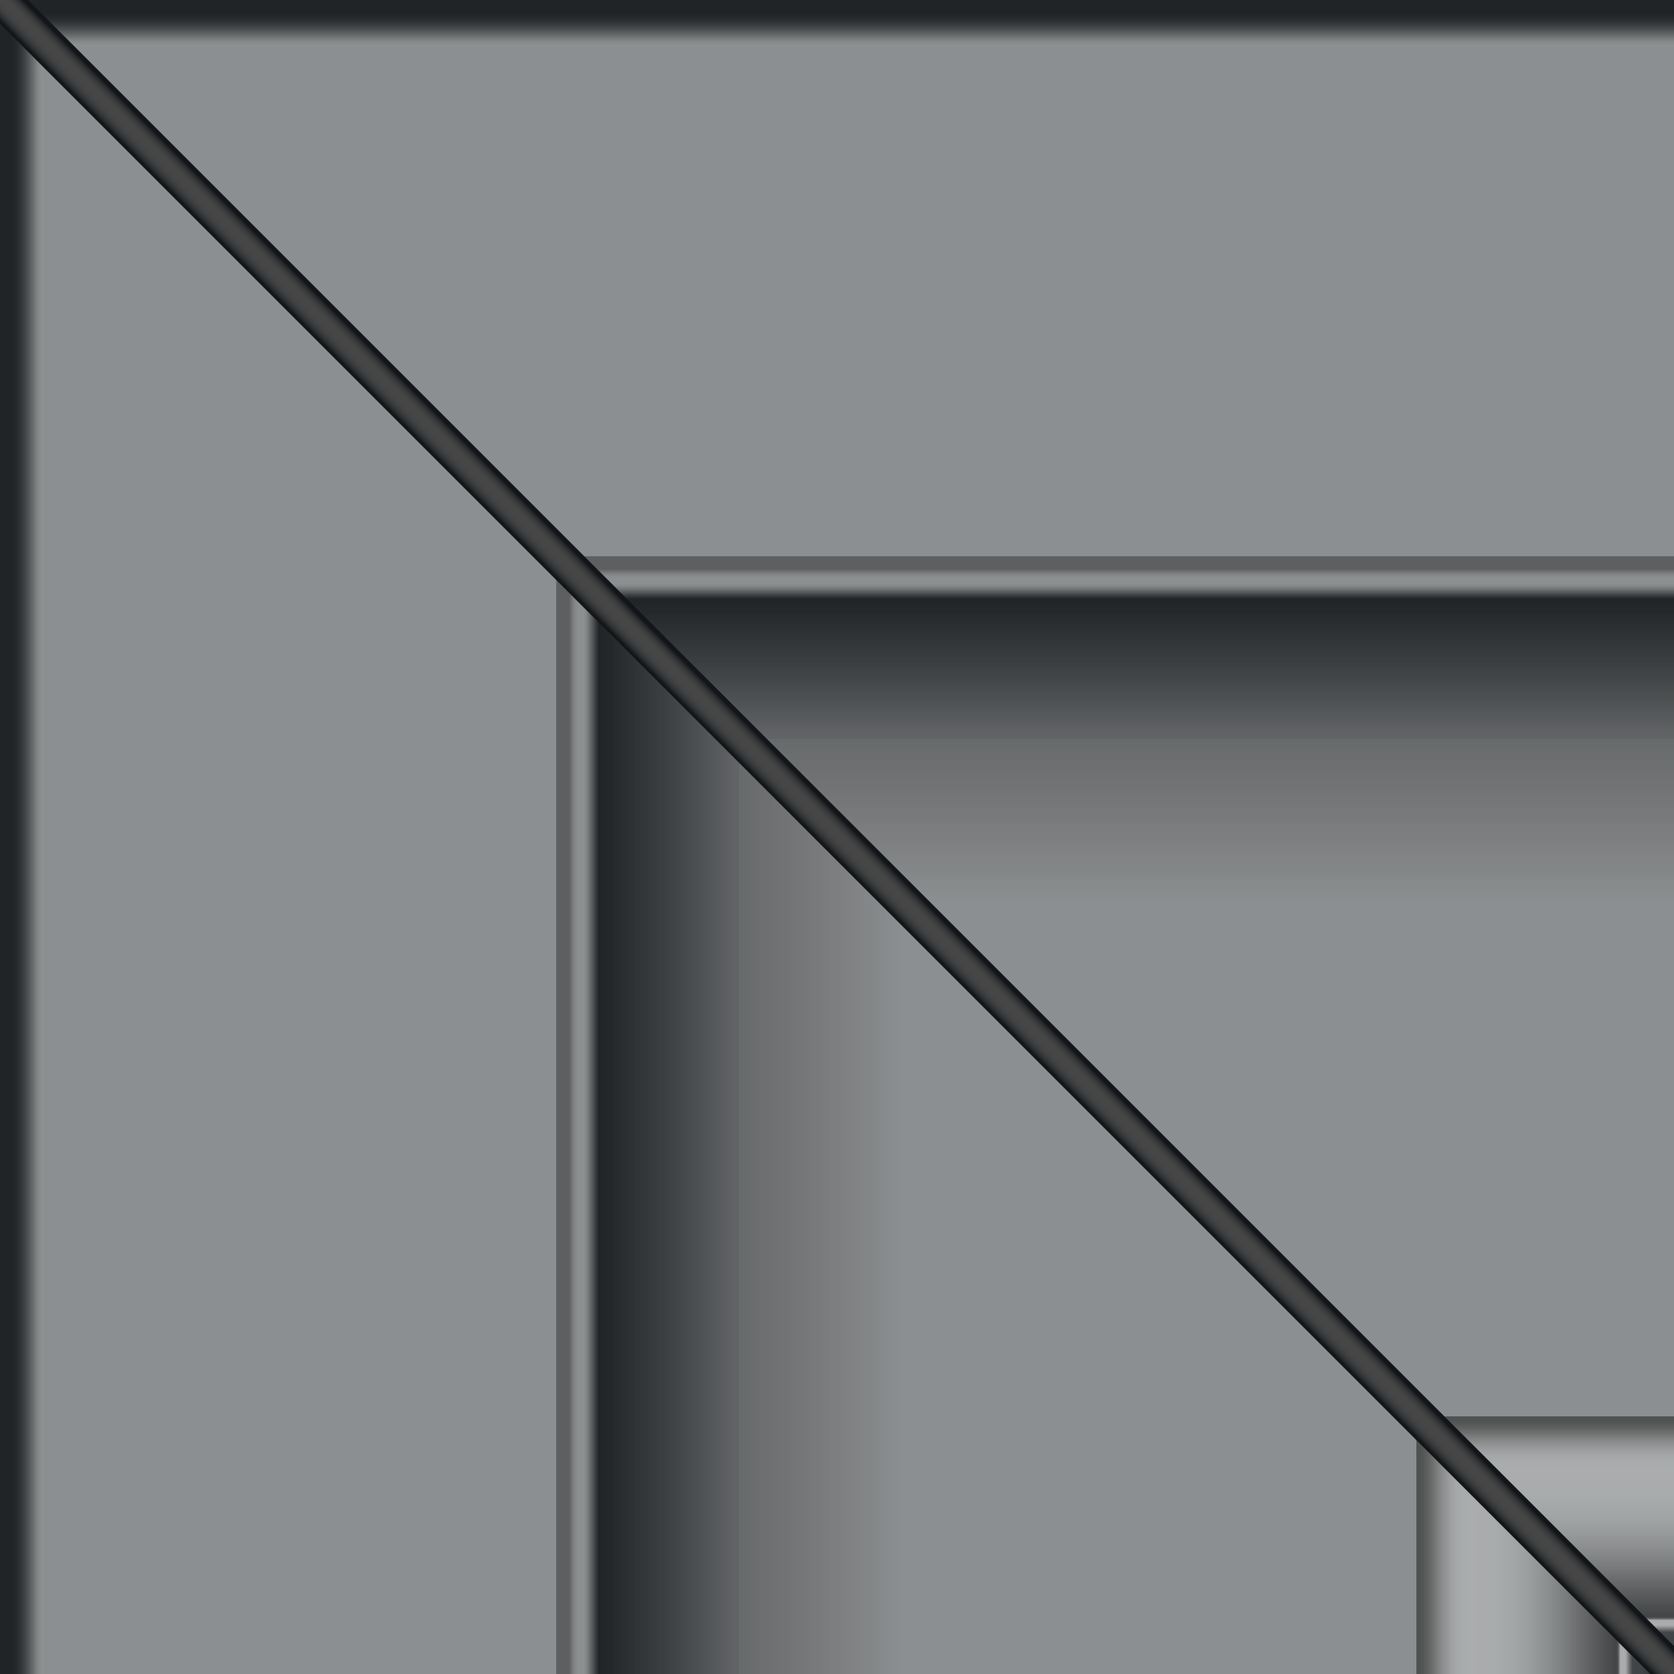
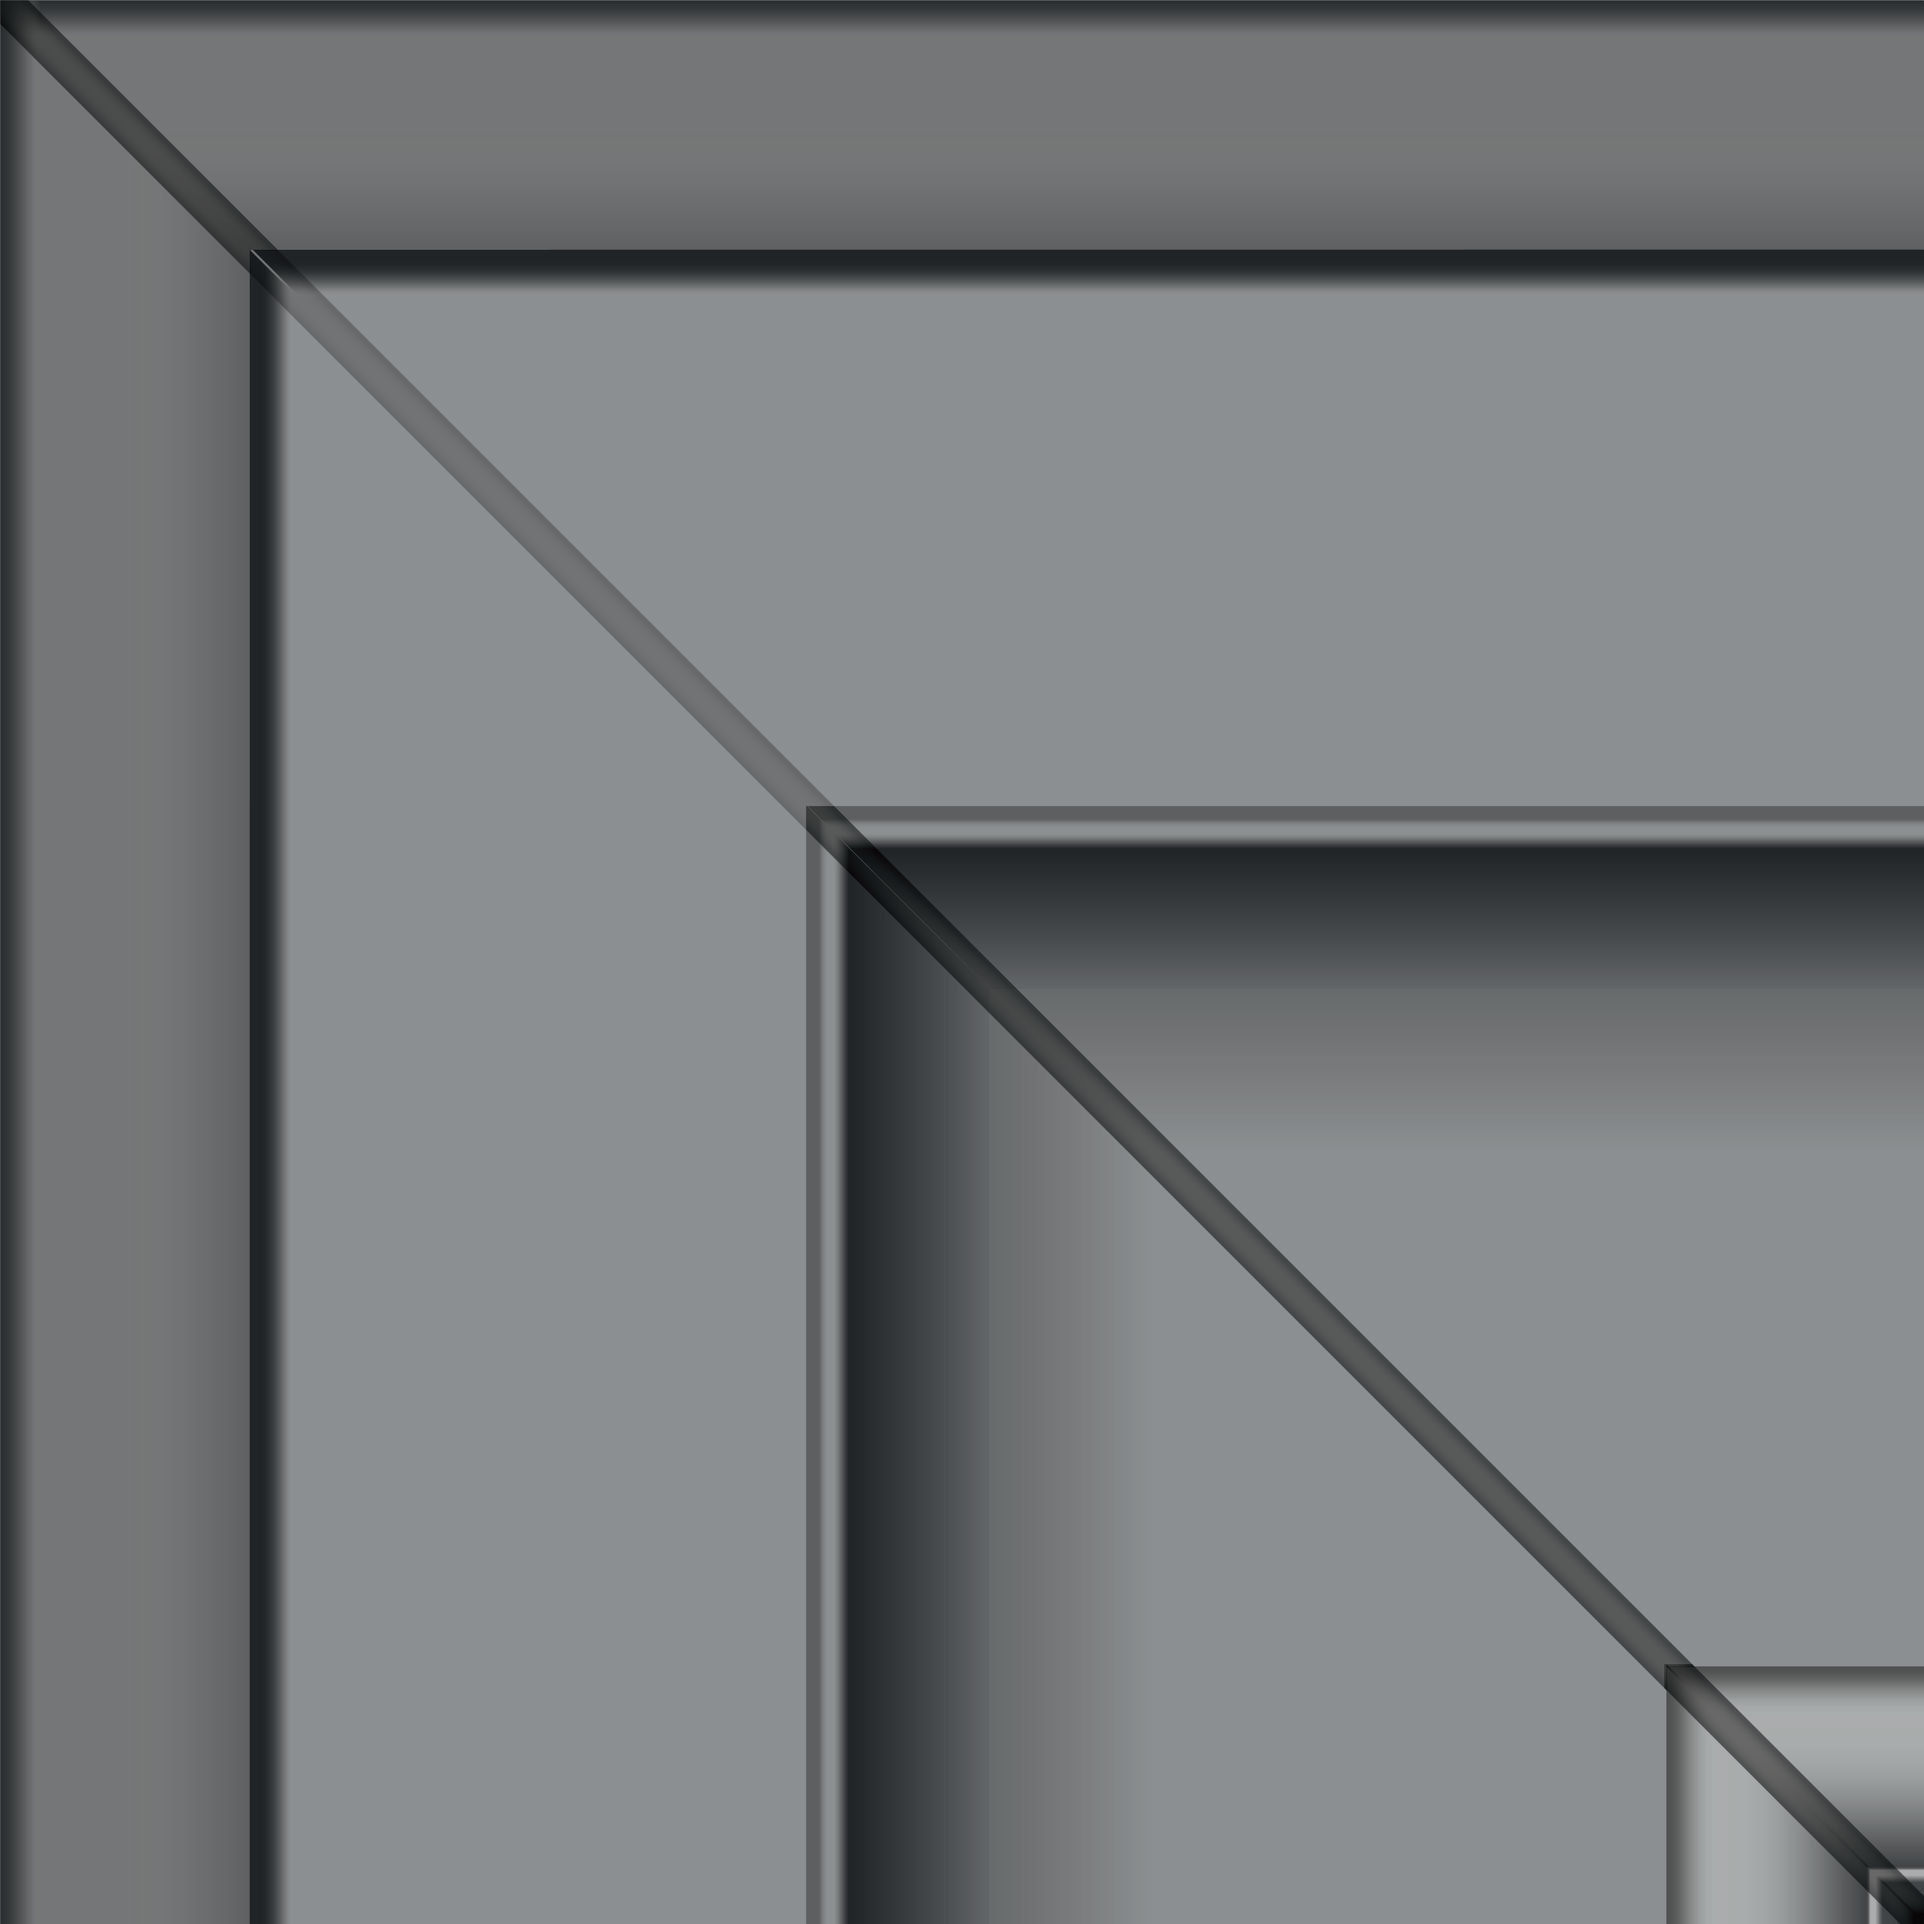
image update

diff --git a/canvasBuilder.js b/canvasBuilder.js
@@ -1238,69 +1238,81 @@ function parseConfigurationFlags(configValue) {
    Patio doors are built like sidescreens: frame + glass only.
    No complex panel, molding, or decorative glazing options.
 */
-async function buildPatioDoorPanel(targetWidth, targetHeight, frameFinish, showHandle = false, handleOnLeft = false) {
+async function buildPatioDoorPanel(targetWidth, targetHeight, frameFinish, showHandle = false, handleOnLeft = false, isOpeningPanel = false, hiddenEdge = null) {
   const finalCanvas = document.createElement("canvas");
   finalCanvas.width = targetWidth;
   finalCanvas.height = targetHeight;
   const finalCtx = finalCanvas.getContext("2d");
 
-  // Step 1: Base fill (simple white/light background for glass area)
-  finalCtx.fillStyle = "rgba(200, 220, 240, 0.3)"; // Light glass-like color
+  // Step 1: Base fill
+  finalCtx.fillStyle = "rgba(200, 220, 240, 0.3)";
   finalCtx.fillRect(0, 0, targetWidth, targetHeight);
 
-  // Step 2: Frame elements — patio-specific images
+  // Step 2: Frame — opening panels use patio-open-* images, fixed panels use patio-fixed-*
+  const framePrefix = isOpeningPanel ? "patio-open" : "patio-fixed";
+  const cornerImg  = getImageURL(`${framePrefix}-corner`);
+  const frameXImg  = getImageURL(`${framePrefix}-frame-x`);
+  const frameYImg  = getImageURL(`${framePrefix}-frame-y`);
+
+  // Top and bottom rails are always present
   const frameElements = [
     {
       id: "top-frame",
       mixedRect: { y: 0, height: 35, xFactor: 0, widthFactor: 1 },
-      options: { imageURL: getImageURL("patio-fixed-frame-x") },
+      options: { imageURL: frameXImg },
     },
     {
       id: "bottom-frame",
       mixedRect: { y: "bottom", height: 35, xFactor: 0, widthFactor: 1 },
-      options: { imageURL: getImageURL("patio-fixed-frame-x"), flipVertical: true },
-    },
-    {
-      id: "left-frame",
-      mixedRect: { x: 0, width: 35, yFactor: 0, heightFactor: 1 },
-      options: { imageURL: getImageURL("patio-fixed-frame-y") },
-    },
-    {
-      id: "right-frame",
-      mixedRect: { x: "right", width: 35, yFactor: 0, heightFactor: 1 },
-      options: { imageURL: getImageURL("patio-fixed-frame-y"), flipHorizontal: true },
-    },
-    {
-      id: "top-left",
-      rect: { x: 0, y: 0, width: 35, height: 35 },
-      options: { imageURL: getImageURL("patio-fixed-corner") },
-    },
-    {
-      id: "top-right",
-      rect: { x: "right", y: 0, width: 35, height: 35 },
-      options: { imageURL: getImageURL("patio-fixed-corner"), flipHorizontal: true },
-    },
-    {
-      id: "bottom-left",
-      rect: { x: 0, y: "bottom", width: 35, height: 35 },
-      options: { imageURL: getImageURL("patio-fixed-corner"), flipVertical: true },
-    },
-    {
-      id: "bottom-right",
-      rect: { x: "right", y: "bottom", width: 35, height: 35 },
-      options: {
-        imageURL: getImageURL("patio-fixed-corner"),
-        flipVertical: true,
-        flipHorizontal: true,
-      },
+      options: { imageURL: frameXImg, flipVertical: true },
     },
   ];
 
-  const frameMask = buildMoldingMask(
-    { elements: frameElements },
-    targetWidth,
-    targetHeight
-  );
+  // Left vertical stile — omitted when this edge slides behind the adjacent panel
+  if (hiddenEdge !== "left") {
+    frameElements.push({
+      id: "left-frame",
+      mixedRect: { x: 0, width: 35, yFactor: 0, heightFactor: 1 },
+      options: { imageURL: frameYImg },
+    });
+  }
+
+  // Right vertical stile — omitted when this edge slides behind the adjacent panel
+  if (hiddenEdge !== "right") {
+    frameElements.push({
+      id: "right-frame",
+      mixedRect: { x: "right", width: 35, yFactor: 0, heightFactor: 1 },
+      options: { imageURL: frameYImg, flipHorizontal: true },
+    });
+  }
+
+  // Corners: only add on sides that have a visible stile
+  if (hiddenEdge !== "left") {
+    frameElements.push({
+      id: "top-left",
+      rect: { x: 0, y: 0, width: 35, height: 35 },
+      options: { imageURL: cornerImg },
+    });
+    frameElements.push({
+      id: "bottom-left",
+      rect: { x: 0, y: "bottom", width: 35, height: 35 },
+      options: { imageURL: cornerImg, flipVertical: true },
+    });
+  }
+  if (hiddenEdge !== "right") {
+    frameElements.push({
+      id: "top-right",
+      rect: { x: "right", y: 0, width: 35, height: 35 },
+      options: { imageURL: cornerImg, flipHorizontal: true },
+    });
+    frameElements.push({
+      id: "bottom-right",
+      rect: { x: "right", y: "bottom", width: 35, height: 35 },
+      options: { imageURL: cornerImg, flipVertical: true, flipHorizontal: true },
+    });
+  }
+
+  const frameMask = buildMoldingMask({ elements: frameElements }, targetWidth, targetHeight);
   const frameCanvas = await applyFinishToElementGroup({
     width: targetWidth,
     height: targetHeight,
@@ -1311,34 +1323,34 @@ async function buildPatioDoorPanel(targetWidth, targetHeight, frameFinish, showH
 
   finalCtx.drawImage(frameCanvas, 0, 0);
 
-  // Step 3: Simple clear glass effect (no decorative glazing patterns)
+  // Step 3: Clear glass — fills from frame inner edge, extending to the raw panel edge on the
+  // hidden side so the panel appears to slide behind the adjacent fixed frame.
   const glazeImg = await loadImage(getImageURL("clear"));
   if (glazeImg) {
-    const margin = 40; // Inside the frame
-    const glassWidth = targetWidth - (margin * 2);
-    const glassHeight = targetHeight - (margin * 2);
-
-    finalCtx.globalAlpha = 0.3;
-    finalCtx.drawImage(glazeImg, margin, margin, glassWidth, glassHeight);
-    finalCtx.globalAlpha = 1.0;
+    const f = 35; // frame thickness
+    const glassX = hiddenEdge === "left"  ? 0            : f;
+    const glassY = f;
+    const glassW = hiddenEdge === "left"  ? targetWidth - f
+                 : hiddenEdge === "right" ? targetWidth - f
+                 : targetWidth - f * 2;
+    const glassH = targetHeight - f * 2;
+    finalCtx.drawImage(glazeImg, glassX, glassY, glassW, glassH);
   }
 
-  // Step 4: Patio handle — always uses patio.png, positioned at the outer edge of the sliding panel
+  // Step 4: Patio handle — always patio.png, at the outer edge of the sliding panel
   if (showHandle) {
     const handleImg = await loadImage(getImageURL("patio"));
     if (handleImg) {
-      // Display dimensions scaled from 476×847 source image
-      const hW = 50;
-      const hH = 89;
-      const hOffsetX = 10; // distance from panel edge
+      const hW = 38;
+      const hH = 67;
+      const hOffsetX = 19;
       const hX = handleOnLeft ? hOffsetX : targetWidth - hW - hOffsetX;
-      const hY = (targetHeight - hH) / 2; // centred vertically
+      const hY = (targetHeight - hH) / 2;
 
       const tintedHandle = tintImage(handleImg, hardwareColorMap[state.selectedHardwareColor] || "#000");
 
       finalCtx.save();
       if (handleOnLeft) {
-        // Mirror so the D-grip opens toward the panel interior
         finalCtx.translate(hX + hW / 2, hY + hH / 2);
         finalCtx.scale(-1, 1);
         finalCtx.drawImage(tintedHandle, -hW / 2, -hH / 2, hW, hH);
@@ -1347,7 +1359,6 @@ async function buildPatioDoorPanel(targetWidth, targetHeight, frameFinish, showH
       }
       finalCtx.restore();
 
-      // Multiply shading pass
       finalCtx.globalCompositeOperation = "multiply";
       finalCtx.save();
       if (handleOnLeft) {
@@ -1368,42 +1379,106 @@ async function buildPatioDoorPanel(targetWidth, targetHeight, frameFinish, showH
 async function renderPatioDoor() {
   const config = state.selectedConfiguration;
   const { displayPixels } = getDoorPanelDimensionsFromInput();
+  const isInternal = state.currentView === "internal";
 
-  // Determine panel count and which panels are opening (have handles)
-  // openingPanels: { [panelIndex]: { handleOnLeft: bool } }
-  // X = open/sliding panel, O = fixed panel
+  // Per-panel data:
+  //   openingPanels[i]   = { handleOnLeft: bool }  (undefined = fixed panel)
+  //   panelIsOpening[i]  = bool
+  //   panelHiddenEdge[i] = "left" | "right" | null
+  //
+  // External: the opening panel hides its inner edge (opposite to handle) because it
+  //           slides behind the adjacent fixed panel at that point.
+  // Internal (pre-mirror): the fixed panel hides its edge that is adjacent to the
+  //           opening panel, because from inside that edge is obscured by the overlap.
   let numPanels = 2;
-  const openingPanels = {};
+  const openingPanels  = {};
+  const panelIsOpening = {};
+  const panelHiddenEdge = {};
 
   if (config === "patio-2-right") {
-    // O | X  —  right panel slides LEFT into O; handle on outer (right) edge
+    // O | X — X slides LEFT; handle on outer (right) edge of X
     numPanels = 2;
-    openingPanels[1] = { handleOnLeft: false };
+    openingPanels[1]  = { handleOnLeft: false };
+    panelIsOpening[1] = true;
+    if (!isInternal) {
+      panelHiddenEdge[1] = "left";   // X: inner (left) edge hidden externally
+    } else {
+      panelHiddenEdge[0] = "right";  // O: right edge hidden internally (pre-mirror)
+    }
+
   } else if (config === "patio-2-left") {
-    // X | O  —  left panel slides RIGHT into O; handle on outer (left) edge
+    // X | O — X slides RIGHT; handle on outer (left) edge of X
     numPanels = 2;
-    openingPanels[0] = { handleOnLeft: true };
+    openingPanels[0]  = { handleOnLeft: true };
+    panelIsOpening[0] = true;
+    if (!isInternal) {
+      panelHiddenEdge[0] = "right";  // X: inner (right) edge hidden externally
+    } else {
+      panelHiddenEdge[1] = "left";   // O: left edge hidden internally (pre-mirror)
+    }
+
   } else if (config === "patio-3panel") {
-    // O | X | O  —  middle panel slides; handle on side AWAY from the panel it slides into
-    // handleSide "left" means door slides right → handle on left outer edge
-    // handleSide "right" means door slides left → handle on right outer edge
+    // O | X | O — middle panel slides; direction determined by handleSide
     numPanels = 3;
-    openingPanels[1] = { handleOnLeft: state.handleSide === "left" };
+    openingPanels[1]  = { handleOnLeft: state.handleSide === "left" };
+    panelIsOpening[1] = true;
+    if (state.handleSide === "left") {
+      // X slides RIGHT → right edge of X is inner
+      if (!isInternal) {
+        panelHiddenEdge[1] = "right";  // X: right edge hidden externally
+      } else {
+        panelHiddenEdge[2] = "left";   // right O: left edge hidden internally
+      }
+    } else {
+      // X slides LEFT → left edge of X is inner
+      if (!isInternal) {
+        panelHiddenEdge[1] = "left";   // X: left edge hidden externally
+      } else {
+        panelHiddenEdge[0] = "right";  // left O: right edge hidden internally
+      }
+    }
+
   } else if (config === "patio-4panel") {
-    // O | X | X | O  —  inner two panels slide outward to their respective fixed panels
-    // Panel 1 slides LEFT into panel 0 → handle on right (outer) edge
-    // Panel 2 slides RIGHT into panel 3 → handle on left (outer) edge
+    // O | X | X | O — inner two panels slide outward
     numPanels = 4;
-    openingPanels[1] = { handleOnLeft: false };
-    openingPanels[2] = { handleOnLeft: true };
+    openingPanels[1]  = { handleOnLeft: false };  // slides LEFT, handle on right
+    openingPanels[2]  = { handleOnLeft: true };   // slides RIGHT, handle on left
+    panelIsOpening[1] = true;
+    panelIsOpening[2] = true;
+    if (!isInternal) {
+      panelHiddenEdge[1] = "left";   // X1: left edge hidden (slides into O at index 0)
+      panelHiddenEdge[2] = "right";  // X2: right edge hidden (slides into O at index 3)
+    } else {
+      panelHiddenEdge[0] = "right";  // O1: right edge hidden internally
+      panelHiddenEdge[3] = "left";   // O2: left edge hidden internally
+    }
   }
 
-  const totalWidth = displayPixels.width;
+  const totalWidth  = displayPixels.width;
   const totalHeight = displayPixels.height;
-  const panelWidth = totalWidth / numPanels;
+
+  // Opening panels are one frame-width (35px) narrower than fixed panels.
+  // Distribute the total width so all panels sum correctly:
+  //   fixedWidth * numPanels - 35 * numOpening = totalWidth
+  const numOpening  = Object.keys(openingPanels).length;
+  const fixedWidth  = Math.round((totalWidth + 35 * numOpening) / numPanels);
+  const openingWidth = fixedWidth - 35;
+
+  // Build per-panel widths and cumulative x offsets
+  const panelWidths = [];
+  for (let i = 0; i < numPanels; i++) {
+    // The panel with a hidden edge is always the narrower one:
+    // externally = the opening panel (slides behind fixed frame);
+    // internally = the fixed panel the opening slides in front of.
+    panelWidths.push((panelHiddenEdge[i] != null) ? openingWidth : fixedWidth);
+  }
+  const panelOffsets = panelWidths.reduce((acc, w, i) => {
+    acc.push(i === 0 ? 0 : acc[i - 1] + panelWidths[i - 1]);
+    return acc;
+  }, []);
 
   const previewCanvas = document.getElementById("previewCanvas");
-  previewCanvas.width = totalWidth;
+  previewCanvas.width  = totalWidth;
   previewCanvas.height = totalHeight;
 
   const ctx = previewCanvas.getContext("2d");
@@ -1412,23 +1487,20 @@ async function renderPatioDoor() {
   const frameFinish = getCurrentFrameFinish();
 
   for (let i = 0; i < numPanels; i++) {
-    const x = i * panelWidth;
-    const panelInfo = openingPanels[i];
-    const showHandle = !!panelInfo;
-    const handleOnLeft = panelInfo?.handleOnLeft ?? false;
+    const panelInfo      = openingPanels[i];
+    const showHandle     = !!panelInfo;
+    const handleOnLeft   = panelInfo?.handleOnLeft ?? false;
+    const isOpeningPanel = panelIsOpening[i] ?? false;
+    const hiddenEdge     = panelHiddenEdge[i] ?? null;
 
     const panelCanvas = await buildPatioDoorPanel(
-      panelWidth,
-      totalHeight,
-      frameFinish,
-      showHandle,
-      handleOnLeft
+      panelWidths[i], totalHeight, frameFinish,
+      showHandle, handleOnLeft, isOpeningPanel, hiddenEdge
     );
-
-    ctx.drawImage(panelCanvas, x, 0);
+    ctx.drawImage(panelCanvas, panelOffsets[i], 0);
   }
 
-  if (state.currentView === "internal") {
+  if (isInternal) {
     mirrorCanvas(previewCanvas);
   }
 }
